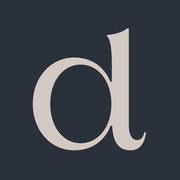
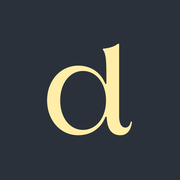
Add files via upload

Changed region(s): [[0.1667, 0.1389, 0.8333, 0.8611]]

diff --git a/index.html b/index.html
@@ -3,9 +3,9 @@
 <head>
 <meta charset="utf-8">
 <meta name="viewport" content="width=device-width, initial-scale=1">
-<link rel="icon" type="image/png" href="favicon.png?v=4">
-<link rel="shortcut icon" href="favicon.ico?v=4">
-<link rel="apple-touch-icon" href="apple-touch-icon.png?v=4">
+<link rel="icon" type="image/png" href="favicon.png?v=5">
+<link rel="shortcut icon" href="favicon.ico?v=5">
+<link rel="apple-touch-icon" href="apple-touch-icon.png?v=5">
 <meta name="description" content="Divya Mohanraj, aspiring chemical engineer and undergraduate researcher in solvation thermodynamics at the University of North Texas. Publications, research, and awards.">
 <title>Divya Mohanraj Portfolio</title>
 <link rel="preconnect" href="https://fonts.googleapis.com">
@@ -24,8 +24,8 @@
   --muted: #C2BFBA;
   --faint: #949493;
   --accent: #E1DDD5;
-  --link: #B8696F;
-  --link-dark: #B8696F;
+  --link: #AD9645;
+  --link-dark: #AD9645;
   --accent-ink: #2A2F38;
   --rule: rgba(225,221,213,.16);
   --head: "Poppins", "Helvetica Neue", Arial, sans-serif;
@@ -253,9 +253,9 @@ footer a { text-decoration: none; border-bottom: 1px solid var(--rule); }
 .lcard.big .lthumb .badge { width: 38px; height: 38px; left: 10px; bottom: 10px; }
 .lcard.big .lthumb .badge svg { width: 20px; height: 20px; }
 @media (max-width: 700px) { .courses, .skill-list { column-count: 1; } }
-a.tl, .courses a, .plain a, .mail, footer a { color: var(--link-dark); border-bottom-color: rgba(184,105,111,.45); }
-.panel .doi, .lbody .go { color: var(--link-dark); border-bottom-color: rgba(184,105,111,.45); }
-.panel.light .tl, .panel.light .doi, .panel.light .courses a { color: var(--link); border-bottom-color: rgba(184,105,111,.5); }
+a.tl, .courses a, .plain a, .mail, footer a { color: var(--link-dark); border-bottom-color: rgba(173,150,69,.45); }
+.panel .doi, .lbody .go { color: var(--link-dark); border-bottom-color: rgba(173,150,69,.45); }
+.panel.light .tl, .panel.light .doi, .panel.light .courses a { color: var(--link); border-bottom-color: rgba(173,150,69,.5); }
 .hello .sub::after { background: var(--link); height: 3px; width: 64px; opacity: 1; }
 .card .rule { background: var(--link); opacity: 1; height: 2px; width: 40px; }
 .avatar { box-shadow: 0 0 0 3px var(--card), 0 0 0 5px var(--link); }
@@ -264,8 +264,8 @@ a.tl, .courses a, .plain a, .mail, footer a { color: var(--link-dark); border-bo
 a.tl, .panel .doi, .lbody .go, .plain a, .mail, footer a { font-weight: 500; border-bottom: 1.5px solid currentColor; }
 a.tl.pl, .courses a, .panel.light a.tl.pl { color: inherit; font-weight: inherit; border-bottom: 1px solid var(--rule); }
 .panel.light a.tl.pl { color: #31363E; border-bottom-color: rgba(49,54,62,.3); }
-.hello .sub::after, .card .rule { background: #E09C9E; }
-.avatar { box-shadow: 0 0 0 3px var(--card), 0 0 0 5px #AC7075; }
+.hello .sub::after, .card .rule { background: #FFEDA8; }
+.avatar { box-shadow: 0 0 0 3px var(--card), 0 0 0 5px #FFEDA8; }
 .lbody .go { color: var(--ink); border-bottom: 0; font-weight: 500; }
 .pill:not(.fill):hover { background: var(--link-dark); border-color: var(--link-dark); color: #2A2F38; }
 .plain a, .mail, footer a { color: var(--ink); font-weight: 400; border-bottom: 1px solid var(--rule); }
@@ -285,10 +285,10 @@ a.tl.pl, .courses a, .panel.light a.tl.pl { color: inherit; font-weight: inherit
 .stat b { display: block; font-weight: 500; font-size: 2rem; line-height: 1.1; color: var(--link-dark); }
 .stat span { display: block; margin-top: 8px; font-size: .68rem; letter-spacing: .14em; text-transform: uppercase; color: var(--muted); line-height: 1.5; }
 .panel.pub { position: relative; }
-.badge { display: inline-block; font-size: .62rem; font-weight: 500; letter-spacing: .16em; text-transform: uppercase; background: #B8696F; color: #DFDBD3; border-radius: 999px; padding: 4px 11px; margin-bottom: 10px; }
+.badge { display: inline-block; font-size: .62rem; font-weight: 500; letter-spacing: .16em; text-transform: uppercase; background: #AD9645; color: #DFDBD3; border-radius: 999px; padding: 4px 11px; margin-bottom: 10px; }
 .pubrow { display: flex; align-items: center; gap: 14px; flex-wrap: wrap; justify-content: space-between; }
 .cite { font-family: var(--head); font-size: .64rem; letter-spacing: .18em; text-transform: uppercase; background: none; color: #31363E; border: 1px solid rgba(49,54,62,.45); border-radius: 999px; padding: 6px 16px; cursor: pointer; }
-.cite:hover { background: #B8696F; border-color: #B8696F; color: #DFDBD3; }
+.cite:hover { background: #AD9645; border-color: #AD9645; color: #DFDBD3; }
 @media (max-width: 960px) {
   .card { left: auto; width: min(300px, calc(100% - 40px)); }
   .avatar { width: 180px; height: 180px; } .card h2 { font-size: 1.55rem; } .card .role { font-size: .74rem; } .card .top { padding: 32px 24px 26px; }
@@ -340,8 +340,8 @@ header, main, footer.foot { position: relative; z-index: 1; }
 @media (max-width: 960px) { .stageart { display: none; } }
 
 /* v29 flipped lower sections (About below the opening, Publications below 'what I research') */
-body:has(#p-about:not([hidden])), body:has(#p-publications:not([hidden])) { --bg:#DFDBD3; --bg-lift:#D5D2CB; --ink:#2A2F38; --muted:#5C5E63; --faint:#78797A; --rule:rgba(42,47,56,.18); --accent:#2A2F38; --accent-ink:#DFDBD3; --link-dark:#B8696F; background:#DFDBD3; background-image:none; color-scheme:light; }
-body:has(#p-about:not([hidden])) .bar, body:has(#p-publications:not([hidden])) .bar, body:has(#p-about:not([hidden])) .stage, body:has(#p-publications:not([hidden])) .stage, body:has(#p-about:not([hidden])) .darkband, body:has(#p-publications:not([hidden])) .darkband { --bg:#2A2F38; --bg-lift:#32373F; --card:#2A2F38; --strip:#2A2F38; --ink:#E1DDD5; --muted:#C2BFBA; --faint:#949493; --rule:rgba(225,221,213,.16); --accent:#E1DDD5; --accent-ink:#2A2F38; --link-dark:#E09C9E; color:#E1DDD5; background:#2A2F38; }
+body:has(#p-about:not([hidden])), body:has(#p-publications:not([hidden])) { --bg:#DFDBD3; --bg-lift:#D5D2CB; --ink:#2A2F38; --muted:#5C5E63; --faint:#78797A; --rule:rgba(42,47,56,.18); --accent:#2A2F38; --accent-ink:#DFDBD3; --link-dark:#AD9645; background:#DFDBD3; background-image:none; color-scheme:light; }
+body:has(#p-about:not([hidden])) .bar, body:has(#p-publications:not([hidden])) .bar, body:has(#p-about:not([hidden])) .stage, body:has(#p-publications:not([hidden])) .stage, body:has(#p-about:not([hidden])) .darkband, body:has(#p-publications:not([hidden])) .darkband { --bg:#2A2F38; --bg-lift:#32373F; --card:#2A2F38; --strip:#2A2F38; --ink:#E1DDD5; --muted:#C2BFBA; --faint:#949493; --rule:rgba(225,221,213,.16); --accent:#E1DDD5; --accent-ink:#2A2F38; --link-dark:#FFEDA8; color:#E1DDD5; background:#2A2F38; }
 body:has(#p-about:not([hidden])) .bar, body:has(#p-publications:not([hidden])) .bar, body:has(#p-about:not([hidden])) .darkband, body:has(#p-publications:not([hidden])) .darkband { box-shadow:0 0 0 100vmax #2A2F38; clip-path:inset(0 -100vmax); }
 body:has(#p-about:not([hidden])) .bgart, body:has(#p-publications:not([hidden])) .bgart { color:rgba(42,47,56,.2); }
 body:has(#p-about:not([hidden])) .panel, body:has(#p-publications:not([hidden])) .panel, body:has(#p-about:not([hidden])) .panel.light, body:has(#p-publications:not([hidden])) .panel.light { border-color:rgba(42,47,56,.08); background:rgba(230,226,217,.94); }
@@ -352,7 +352,7 @@ body:has(#p-about:not([hidden])) .stat:hover, body:has(#p-publications:not([hidd
 body:has(#p-about:not([hidden])) .lcard:hover, body:has(#p-publications:not([hidden])) .lcard:hover { background:#E6E2D9; border-color:rgba(42,47,56,.35); }
 body:has(#p-about:not([hidden])) .lthumb, body:has(#p-publications:not([hidden])) .lthumb { --muted:#C7C4BF; color:#DFDBD3; border-color:rgba(42,47,56,.3); }
 body:has(#p-about:not([hidden])) .chip, body:has(#p-publications:not([hidden])) .chip { border-color:rgba(42,47,56,.45); color:#2A2F38; }
-body:has(#p-about:not([hidden])) .chip:hover, body:has(#p-publications:not([hidden])) .chip:hover { background:#B8696F; border-color:#B8696F; color:#E1DDD5; }
+body:has(#p-about:not([hidden])) .chip:hover, body:has(#p-publications:not([hidden])) .chip:hover { background:#AD9645; border-color:#AD9645; color:#E1DDD5; }
 body:has(#p-about:not([hidden])) .chip.on, body:has(#p-publications:not([hidden])) .chip.on { background:#2A2F38; color:#DFDBD3; border-color:#2A2F38; }
 body:has(#p-about:not([hidden])) .cite, body:has(#p-publications:not([hidden])) .cite { border-color:rgba(42,47,56,.4); color:#2A2F38; }
 body:has(#p-about:not([hidden])) .body-grid.first { grid-template-columns:minmax(0,1fr); gap:22px; }
@@ -380,7 +380,7 @@ body:has(#p-about:not([hidden])) .stat span { color:var(--muted); }
 body:has(#p-about:not([hidden])) .stats { background:#2A2F38; box-shadow:0 0 0 100vmax #2A2F38; clip-path:inset(0 -100vmax); padding-top:44px; padding-bottom:44px; margin-top:0; }
 body:has(#p-about:not([hidden])) .body-grid.first { padding-top:44px; row-gap:44px; border-top:0; }
 body:has(#p-about:not([hidden])) .stat span { color:#5C5E63; }
-body:has(#p-about:not([hidden])) .stat b { color:#B8696F; }
+body:has(#p-about:not([hidden])) .stat b { color:#AD9645; }
 .flogo.fisd img { object-fit:cover; }
 .bar { padding-block: 24px; }
 .brand .namemark { display:block; height:54px; width:auto; max-width:60vw; }
@@ -397,8 +397,8 @@ body:has(#p-about:not([hidden]))::before, body:has(#p-publications:not([hidden])
 .explain p { max-width:none; }
 body:has(#p-about:not([hidden])) .card .top, body:has(#p-about:not([hidden])) .card .icons { background:transparent; }
 body:has(#p-about:not([hidden])) .card { background:#2B313D; }
-.body-grid.first, .bar, .stage, .darkband, .darkband .panel { --link-dark:#E09C9E; }
-.stat, .lcard, .panel.light { --link-dark:#B8696F; }
+.body-grid.first, .bar, .stage, .darkband, .darkband .panel { --link-dark:#FFEDA8; }
+.stat, .lcard, .panel.light { --link-dark:#AD9645; }
 </style>
 
 <div class="bar">
